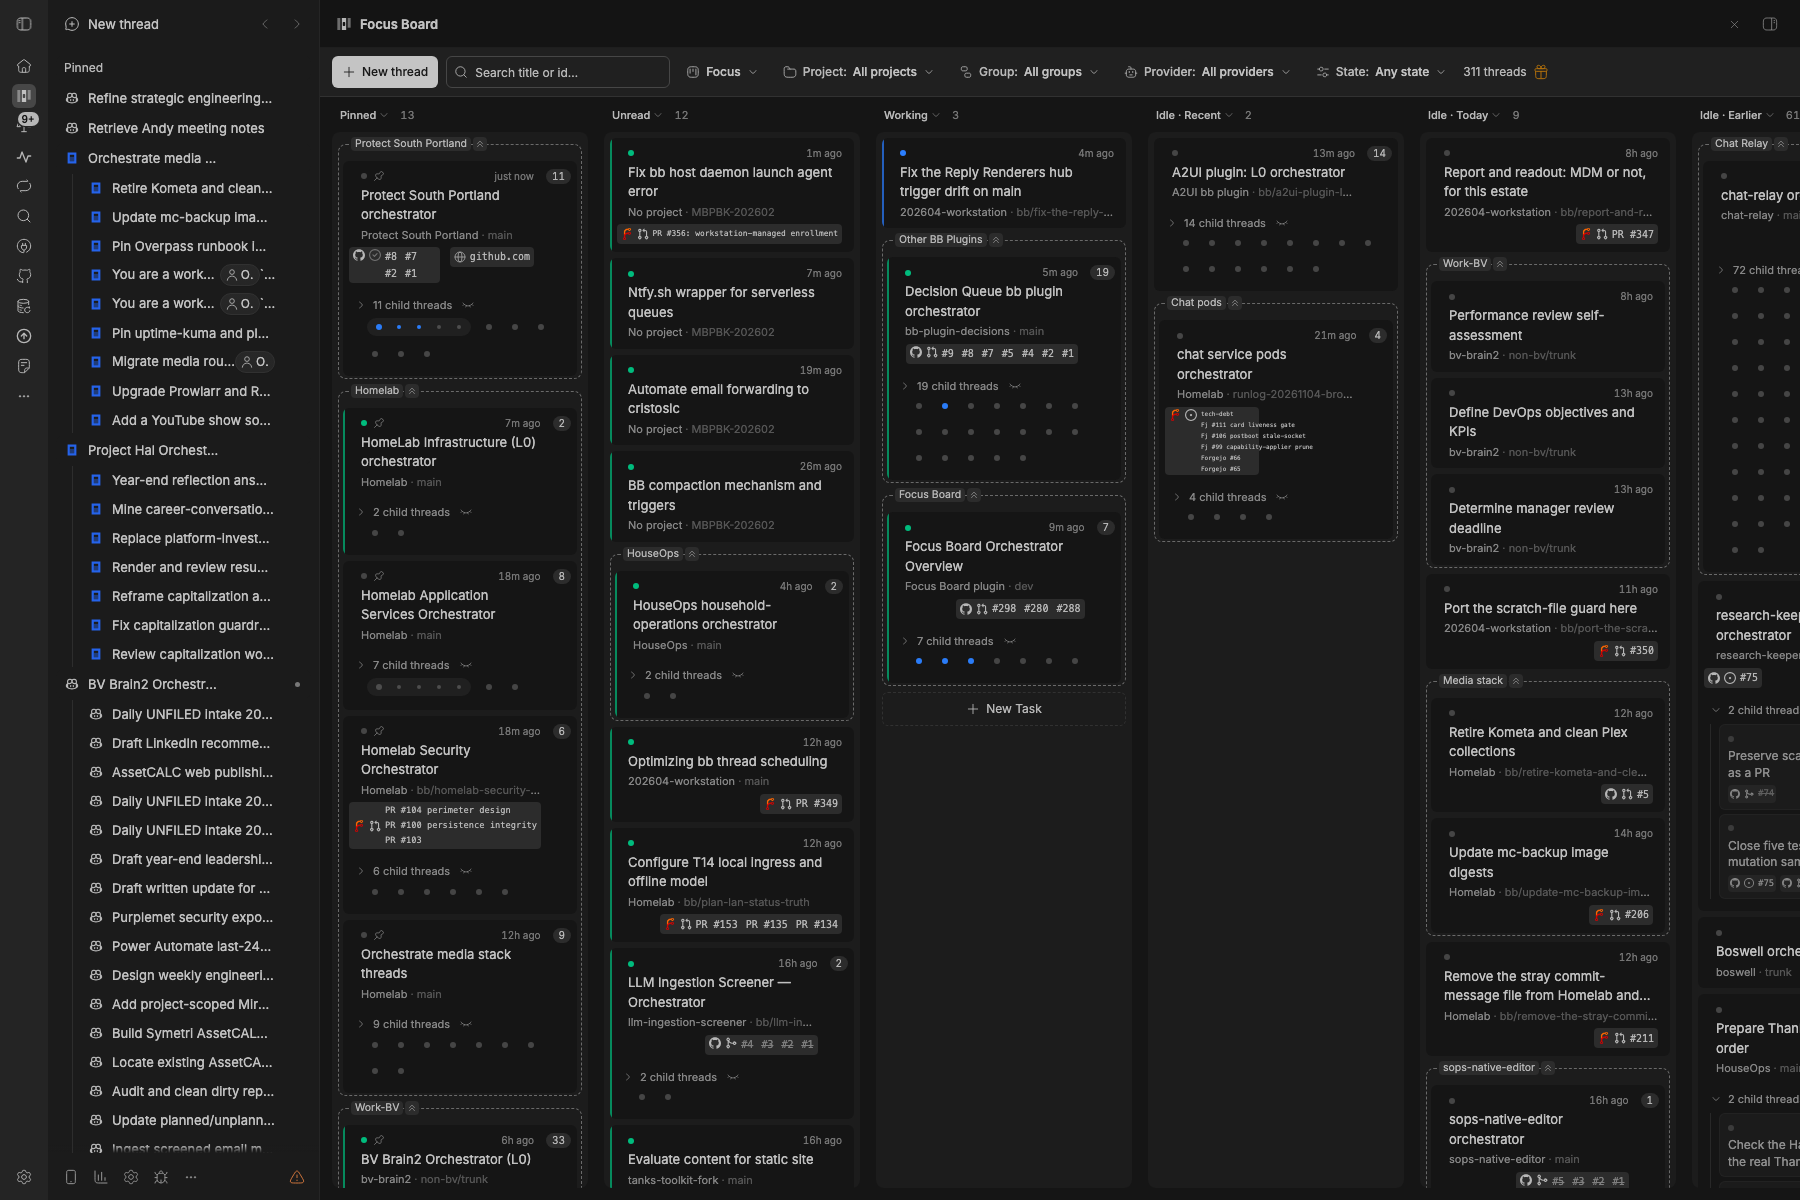
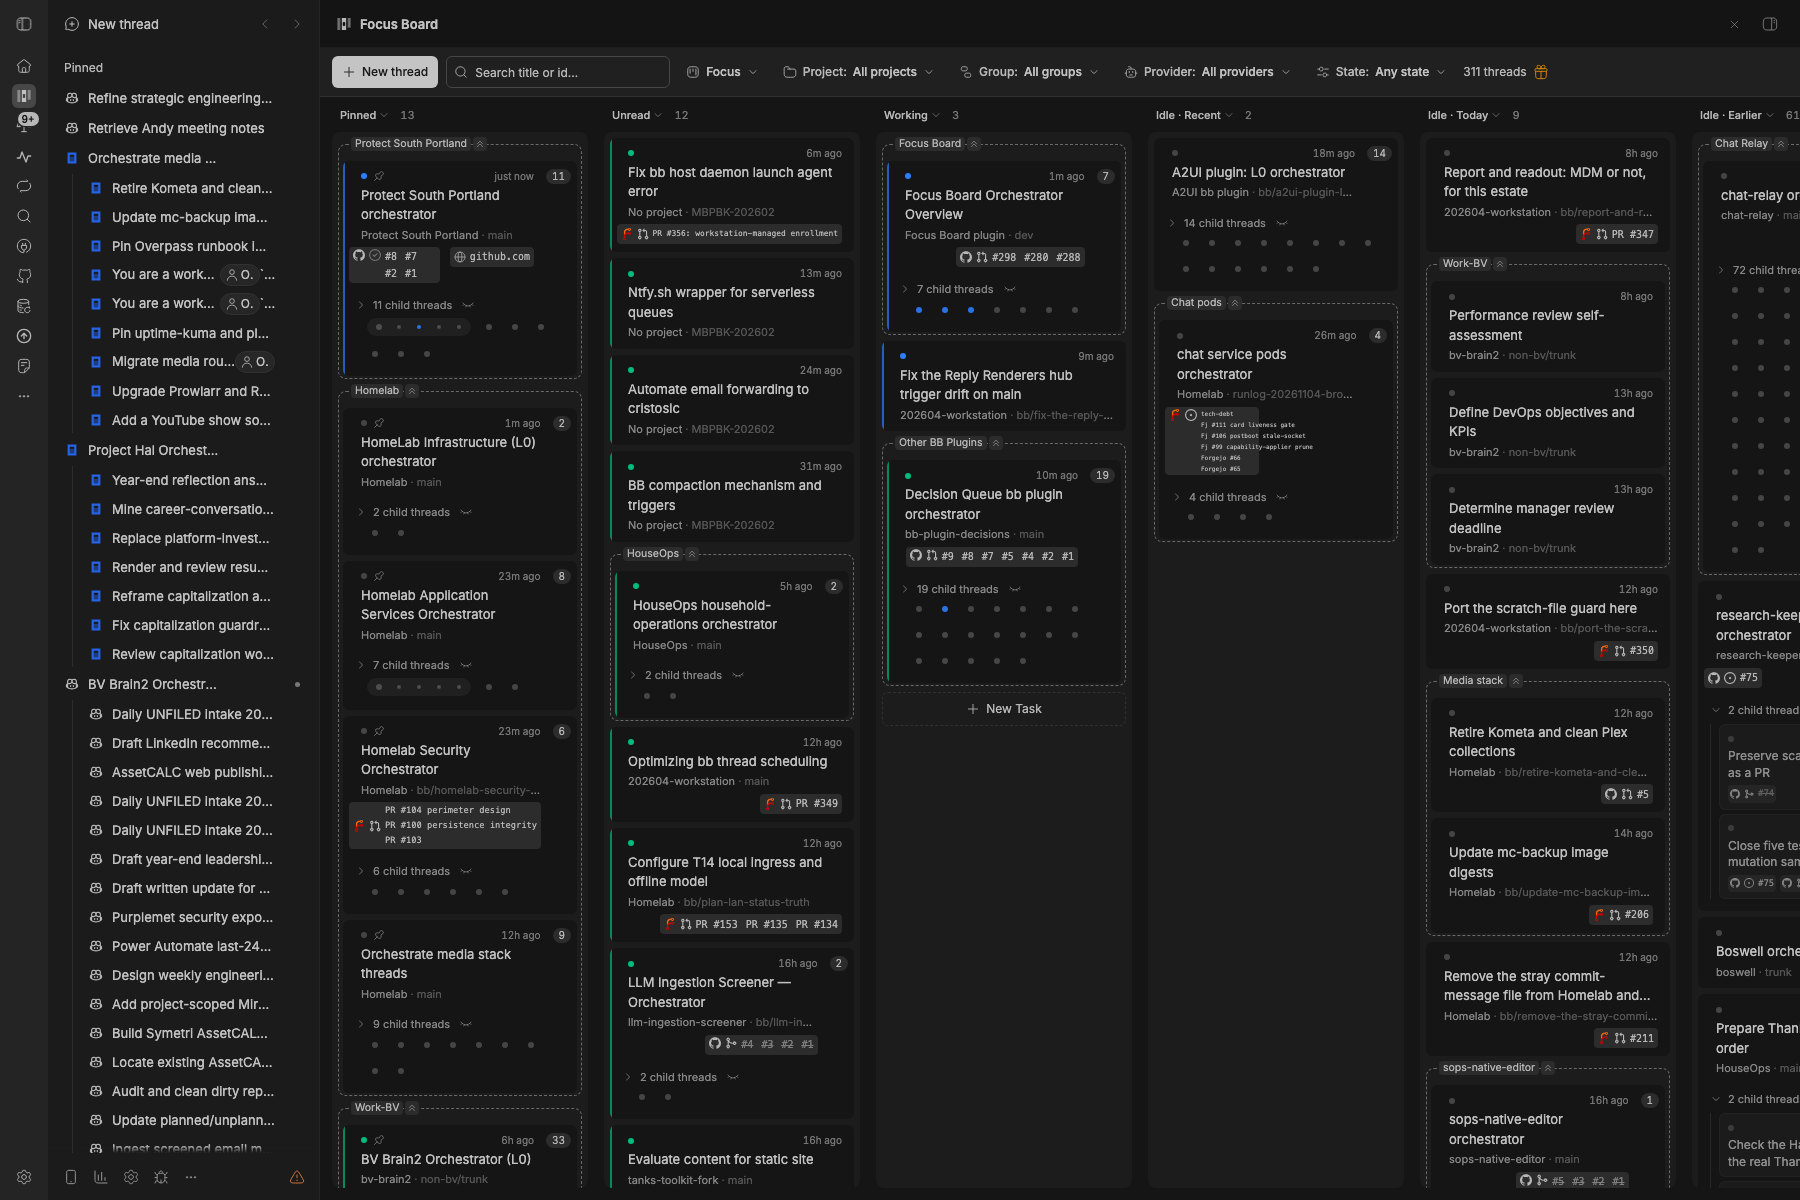
Refresh the census evidence from a settled run
The first captures raced the host's streaming sidebar list and could hold a
partial board (60 cards over six lanes, no Done lane). The probe now waits for
a four-sample settled census, and both boards were re-read: the live board is
123 cards over seven lanes with no pill anywhere, and the harness keeps its
positive control (Done proposes 2, A-while-ago 1).

Changed region(s): [[0.4978, 0.0925, 0.6222, 0.37], [0.4978, 0.4008, 0.5911, 0.555]]

diff --git a/tests/app-sweep-lane-pills.test.tsx b/tests/app-sweep-lane-pills.test.tsx
@@ -3,10 +3,10 @@
 // manual door. The component suites (tests/sweep-button.test.tsx,
 // tests/lane-header-menu.test.tsx) inject `sweepCandidatesFor`, so they pin
 // the pill's rendering law but not the eligibility the app actually computes.
-// This suite drives the app's own law end to end — `done_list` + the sweep
-// config through the fake host, then the Board's header — on the shape the
-// operator reported (an Idle · Earlier lane and a Done lane, both without a
-// pill):
+// This suite drives the app's own law end to end: `done_list` plus the sweep
+// config through the fake host, then the Board's header. It runs on the shape
+// the operator reported (an Idle · Earlier lane and a Done lane, both without
+// a pill):
 //
 // 1. Done is a PRESELECTING arm: a done thread past `doneArchiveMs` puts the
 //    broom and its count on the lane. That is the case a wiring regression

diff --git a/docs/screenshots/probe-sweep-pills/README.md b/docs/screenshots/probe-sweep-pills/README.md
@@ -29,9 +29,11 @@ Every lane's pill is absent for a reason the rule names:
 - **Idle · Earlier** is manual-only. The 2026-10-03 arming decision demoted
   the fresher idle buckets (`idle-earlier`, `idle-today`, `idle-recent`) to
   manual arming, so `sweepArmPreselects` is false for them, the app's dispatch
-  returns no candidates, and the pill has nothing to propose. The lane is 1–7
-  days idle; of its 61 threads, 5 are past the 2-day threshold, and the rule
-  still proposes none of them.
+  returns no candidates, and the pill has nothing to propose. The lane holds
+  threads that went quiet 1–7 days ago, and some of them are past the same
+  2-day threshold the proposing arms use. The rule never asks, because that
+  bucket is curated by hand. Its door is the lane menu's "Sweep this lane…",
+  which arms the lane empty for the operator to build click by click.
 - **Done** preselects, so an empty pill means an empty eligible set. The lane
   held 14 done threads, and not one was eligible: the only thread past the
   2-day threshold (`thr_uyu3s59q3b`, 3.42 days done) carried a `keep` flag,
